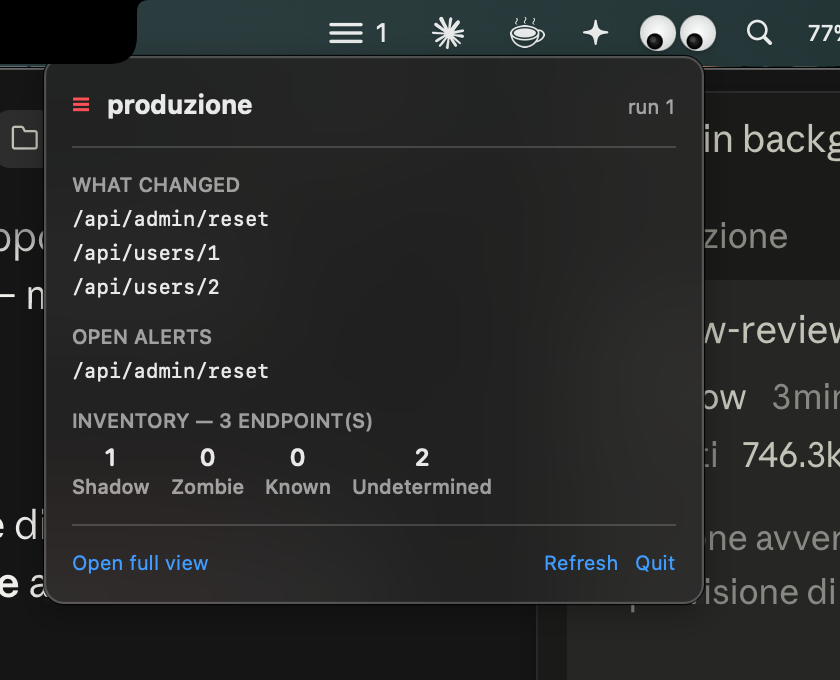
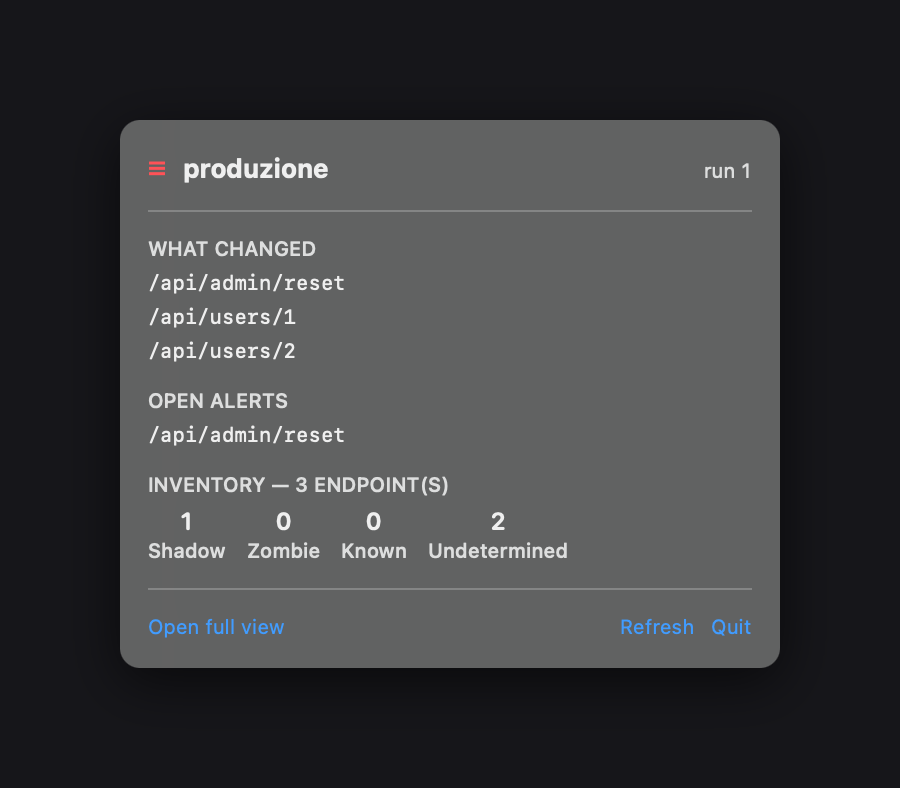
Downloadable builds, release pipeline, and a clean product shot
- release workflow: builds and tests on linux x86_64/aarch64 and macOS
  arm64/x86_64, packages each binary with its SHA-256, builds the macOS
  DMG, and attaches everything to the tagged release
- README: download links, and how the tool is meant to be used on a
  Linux server (terminal plus a page the daemon keeps current) versus on
  a Mac (the same, plus the menu bar app)
- the macOS build is unsigned and the README says so plainly, together
  with why that is a real gap and not a formality
- menu bar screenshot retaken as a single-window capture, so the picture
  shows the panel and nothing behind it

diff --git a/README.md b/README.md
@@ -19,6 +19,16 @@ endpoint inventory` · `Rust` · `CLI`
 
 </div>
 
+<div align="center">
+
+### Download
+
+[**↓ macOS — Shadow.dmg**](https://github.com/theghostshinobi/shadows-api/releases/latest/download/Shadow-macos-arm64.dmg) · [**↓ Linux x86_64**](https://github.com/theghostshinobi/shadows-api/releases/latest/download/shadow-linux-x86_64.tar.gz) · [**↓ Linux ARM64**](https://github.com/theghostshinobi/shadows-api/releases/latest/download/shadow-linux-aarch64.tar.gz)
+
+[all releases and checksums](https://github.com/theghostshinobi/shadows-api/releases)
+
+</div>
+
 ---
 
 ## Who this is for
@@ -129,13 +139,71 @@ shadow compliance --history shadow.db --format csv > inventory.csv
 
 There is a step-by-step walkthrough in **[docs/TUTORIAL.md](docs/TUTORIAL.md)**.
 
-## Building
+## How it works on each system
 
-Rust 1.85 or newer, and nothing else. No network access is needed at build time
-or at run time.
+The engine is the same everywhere: **one binary, `shadow`, with no runtime
+dependencies.** What differs is only how you look at it.
+
+### Linux — the server case
+
+This is what Shadow was built for: it sits on the machine that already has the
+logs, and never moves them.
+
+```bash
+tar -xzf shadow-linux-x86_64.tar.gz
+sudo install -m 755 shadow /usr/local/bin/
+
+# watch a log continuously, and keep a page up to date next to it
+shadow daemon /var/log/nginx/access.log \
+       --openapi-spec /etc/shadow/openapi.json \
+       --history /var/lib/shadow/history.db --target payments-api \
+       --interval 60 --dashboard /var/www/html/shadow.html
+```
+
+Two ways to look at it, and neither needs a desktop:
+
+- **terminal** — `shadow status`, `shadow alerts`, `shadow compliance`, over ssh;
+- **web page** — the daemon rewrites `shadow.html` after every cycle, and the
+  page re-reads itself. Serve it with whatever web server you already run, or
+  use `shadow serve` for a local read-only server on `127.0.0.1:8787`.
+
+There is no Linux GUI app, and there is no plan for one: on a server the
+terminal and a page are the two things that actually get used.
+
+It runs fine under `systemd`; a unit file is a dozen lines and the daemon needs
+no privileges beyond reading the log and writing its history.
+
+### macOS — the desktop case
+
+Everything the Linux side does, plus a menu bar app.
+
+```bash
+# from the DMG: drag Shadow.app onto Applications, and copy the binary
+sudo cp /Volumes/Shadow/shadow /usr/local/bin/
+```
+
+Then tell the app where to look, in
+`~/Library/Application Support/Shadow/menubar.json` — it writes an example one
+for you the first time you launch it.
+
+> **The macOS build is not signed or notarised.** macOS refuses downloaded
+> unsigned apps on first launch. Right-click `Shadow.app` → **Open** → **Open**,
+> or `xattr -dr com.apple.quarantine /Applications/Shadow.app`.
+>
+> This is a real gap, not a formality: signing needs an Apple Developer account,
+> which belongs to a person and not to a repository. Until there is one, you are
+> being asked to trust a build you cannot verify through Apple — which is
+> exactly the kind of request you should be suspicious about, including here.
+> Every archive ships with its SHA-256, and you can always build from source.
+
+### Building from source
+
+Rust 1.85 or newer, and nothing else. No network access at build time or at run
+time — SQLite is compiled from source that ships inside the dependency.
 
 ```bash
 cargo build --release          # -> target/release/shadow
+cargo test --workspace         # 241 checks
 sh macos/build.sh              # -> macos/build/Shadow.app  (macOS only)
 ```
 
